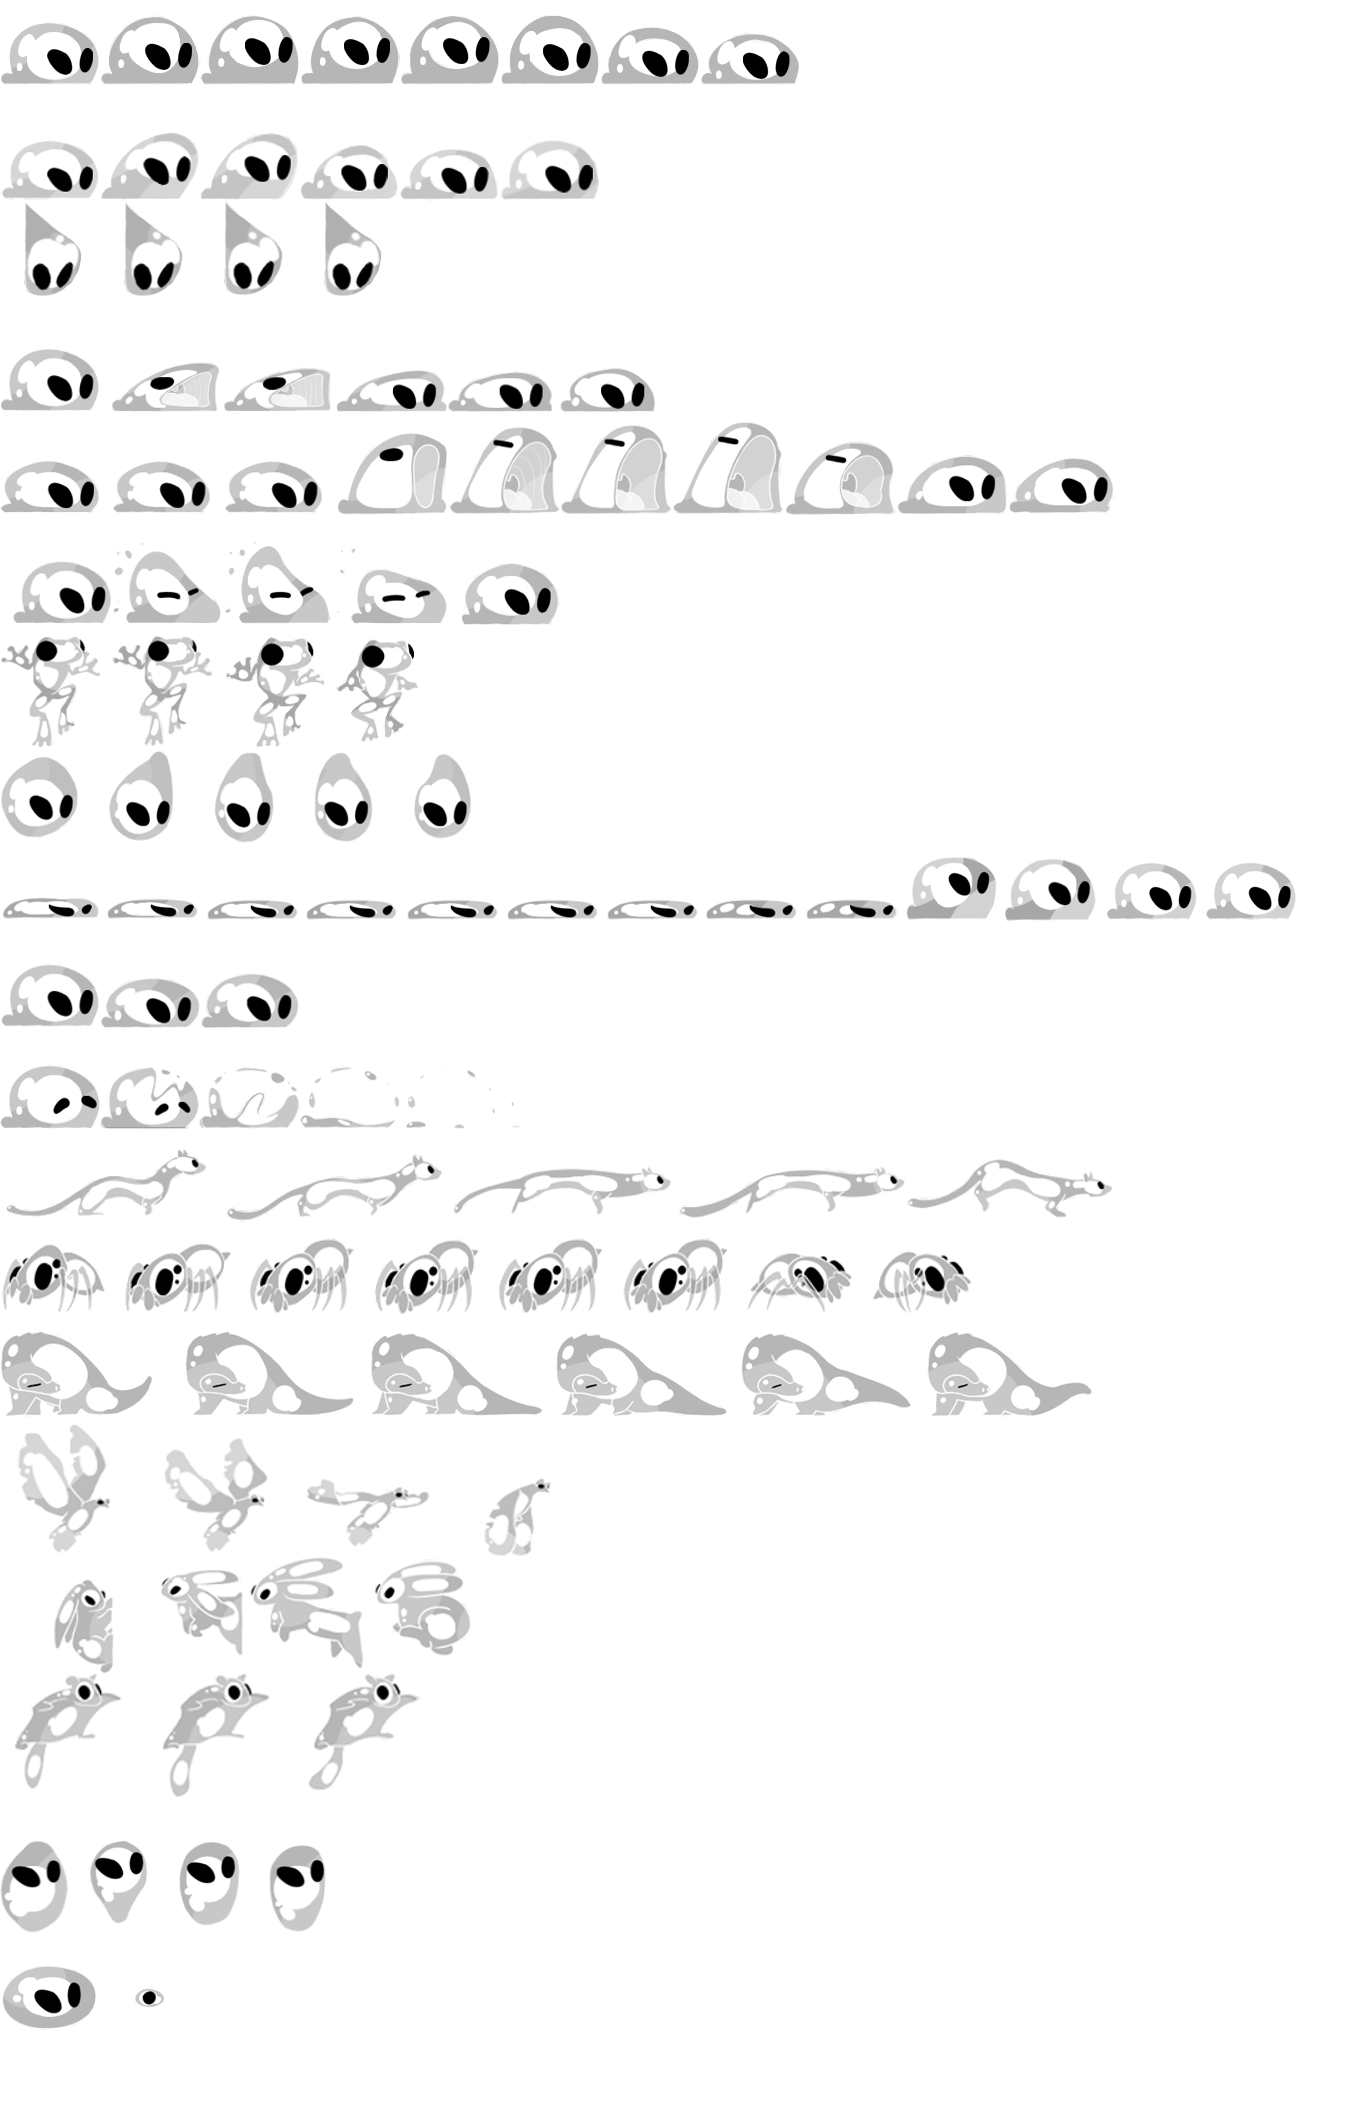
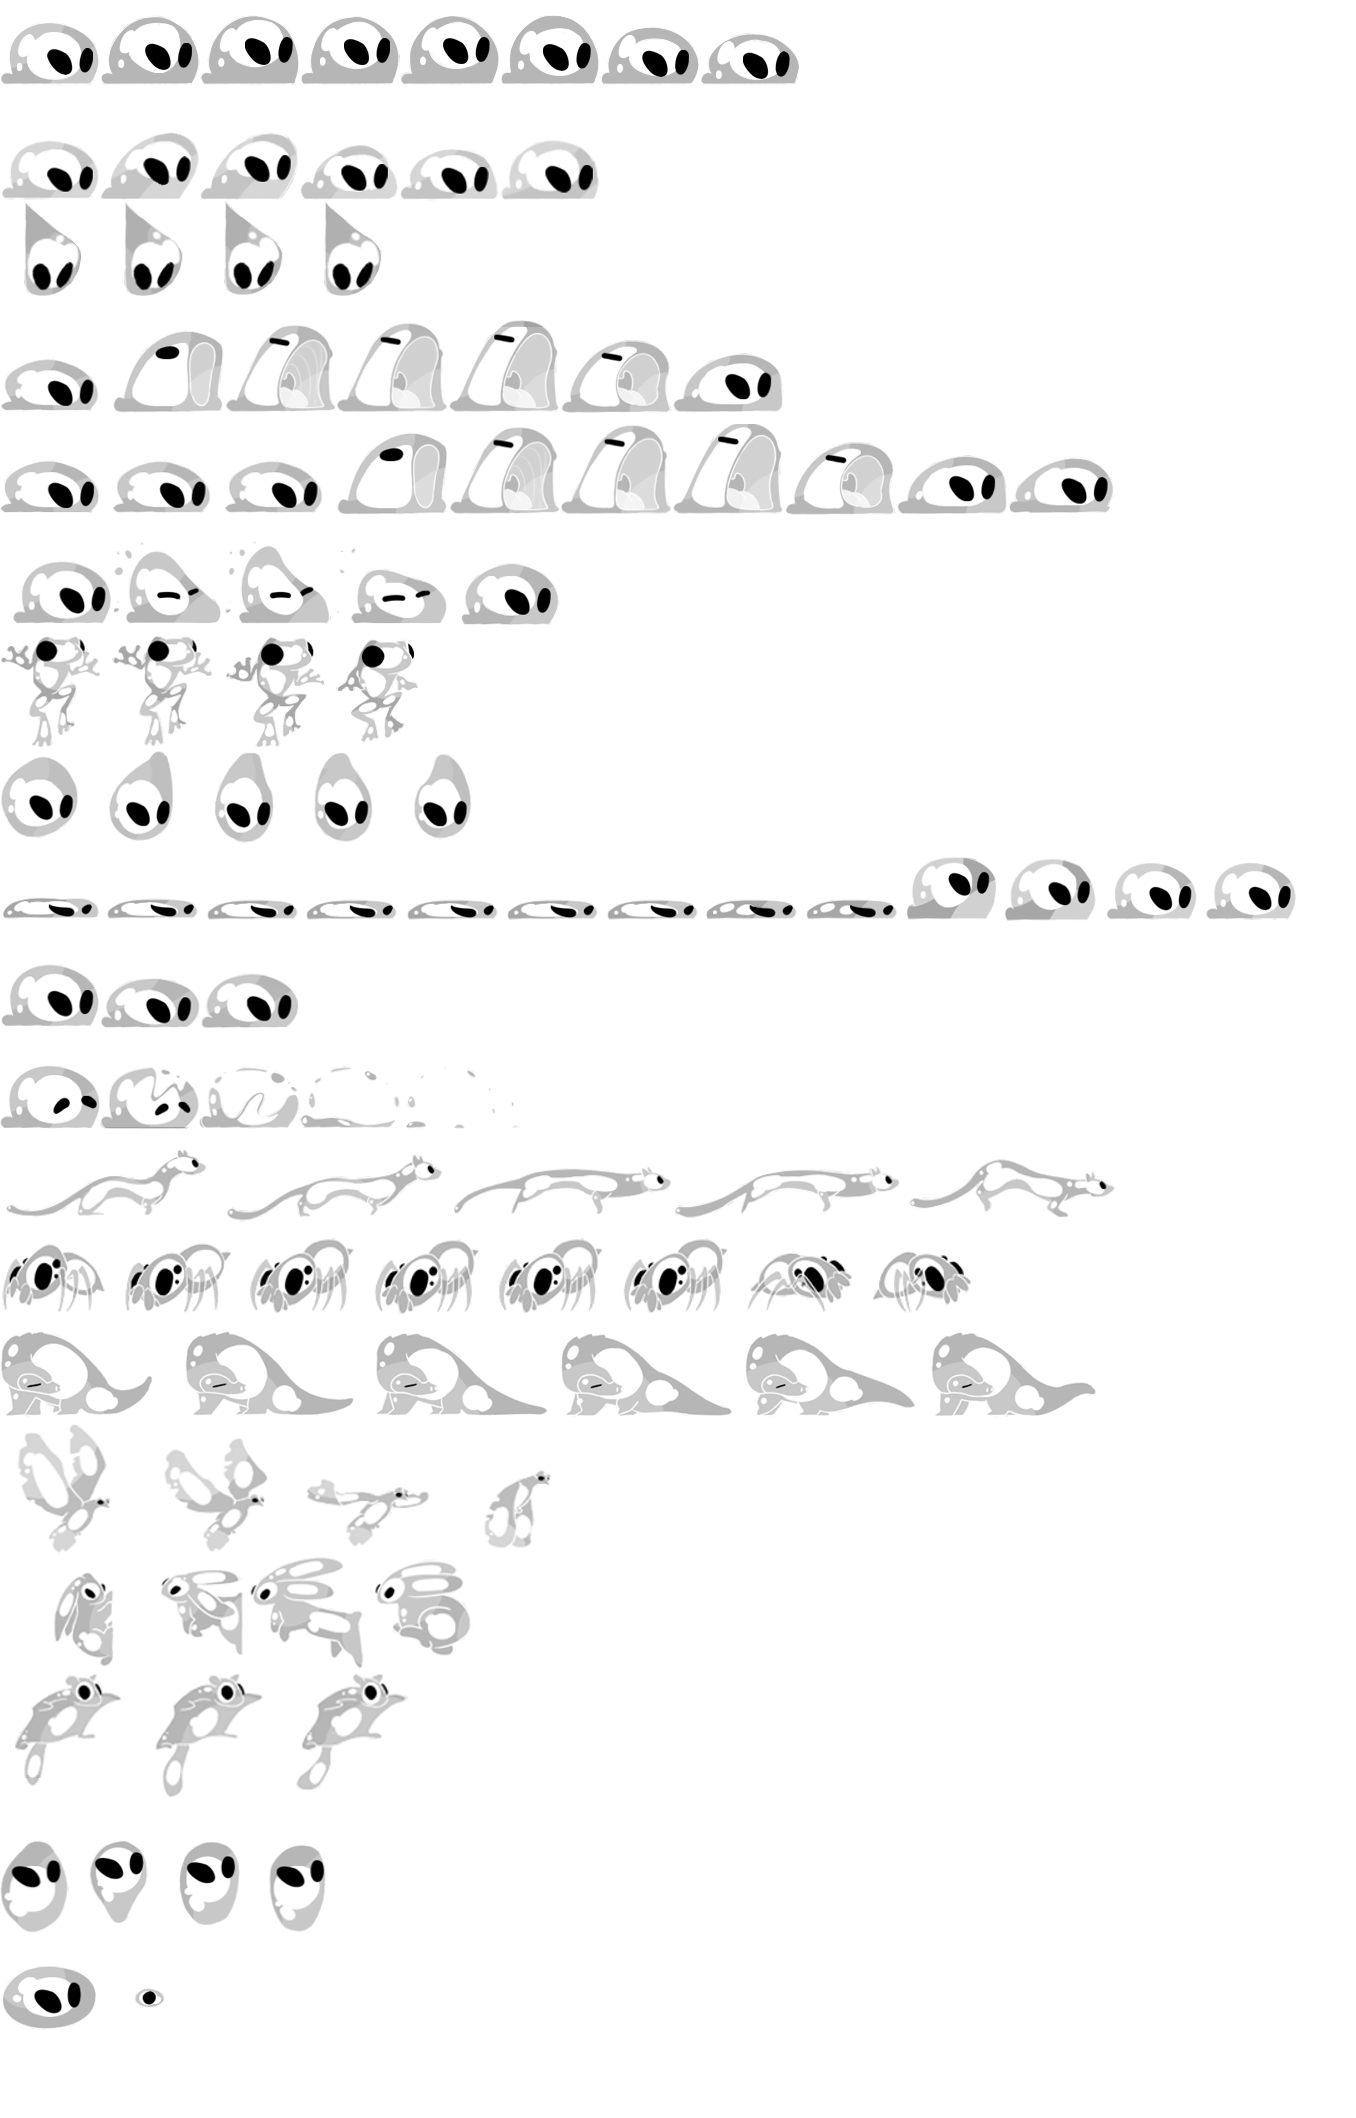
new animations uploaded

diff --git a/Output/src/JumpMechanic.cpp b/Output/src/JumpMechanic.cpp
@@ -21,6 +21,11 @@ void JumpMechanic::Update(float dt) {
 void JumpMechanic::HandleJumpInput(float dt) {
     if (!jumpUnlocked) return;
 
+    if (player->GetMechanics()->GetMovementHandler()->IsDashUnlocked() &&
+        player->GetMechanics()->GetMovementHandler()->GetDashMechanic().IsDashing()) {
+        return;
+    }
+
     // Entrada teclado
     std::shared_ptr<Input> input = Engine::GetInstance().input;
     bool spaceNow = input->GetKey(SDL_SCANCODE_SPACE) == KEY_REPEAT || input->GetKey(SDL_SCANCODE_SPACE) == KEY_DOWN;
@@ -48,22 +53,7 @@ void JumpMechanic::HandleJumpInput(float dt) {
 
     // Iniciar salto
     if (jumpDown) {
-        if (jumpCount == 0 && player->GetMechanics()->IsOnGround()) {
-            jumpHoldTimer.Start();
-            isJumping = true;
-            jumpCount = 1;
-            player->GetMechanics()->SetIsOnGround(false);
-            player->GetAnimation()->SetStateIfHigherPriority("jump");
-            jumpInterrupted = false;
-
-            jumpCooldownTimer.Start();
-            jumpCooldownActive = true;
-
-            // Impulso inicial para garantizar altura m�nima
-            b2Vec2 impulse(0, -minJumpForce);
-            player->pbody->body->ApplyForceToCenter(impulse, true);
-        }
-        else if (wallJumpUnlocked && player->GetMechanics()->IsWallSliding()) {
+        if (wallJumpUnlocked && player->GetMechanics()->IsWallSliding()) {
             isJumping = true;
             wallJumpActive = true;
             jumpCount = 1;
@@ -89,6 +79,21 @@ void JumpMechanic::HandleJumpInput(float dt) {
             wallJumpLockActive = true;
             wallJumpLockTimer.Start();
         }
+        if (jumpCount == 0 && player->GetMechanics()->IsOnGround()) {
+            jumpHoldTimer.Start();
+            isJumping = true;
+            jumpCount = 1;
+            player->GetMechanics()->SetIsOnGround(false);
+            player->GetAnimation()->SetStateIfHigherPriority("jump");
+            jumpInterrupted = false;
+
+            jumpCooldownTimer.Start();
+            jumpCooldownActive = true;
+
+            // Impulso inicial para garantizar altura m�nima
+            b2Vec2 impulse(0, -minJumpForce);
+            player->pbody->body->ApplyForceToCenter(impulse, true);
+        }
         else if (doubleJumpUnlocked && jumpCount < maxJumpCount) {
             jumpHoldTimer.Start();
             isJumping = true;
@@ -107,6 +112,7 @@ void JumpMechanic::HandleJumpInput(float dt) {
             b2Vec2 impulse(0, -minJumpForce);
             player->pbody->body->ApplyForceToCenter(impulse, true);
         }
+
     }
 
     if (isJumping && jumpHoldTimer.ReadMSec() > 0 && jumpRepeat) {

diff --git a/Output/src/HookAnchor.cpp b/Output/src/HookAnchor.cpp
@@ -33,6 +33,7 @@ bool HookAnchor::Start()
     sensor->ctype = ColliderType::HOOK_SENSOR;
     sensor->listener = this;
 
+    highlightTexture = Engine::GetInstance().textures->Load("Assets/Props/gancho_seleccionado.png");
 
     return true;
 }
@@ -99,14 +100,10 @@ bool HookAnchor::Update(float dt)
     {
         int borderX = position.getX();
         int borderY = position.getY();
-        int borderW = width;
-        int borderH = height;
 
-        // Dibuja los 4 lados del recuadro
-        Engine::GetInstance().render->DrawLine(borderX, borderY, borderX + borderW, borderY, 255, 255, 0, 255); // Top
-        Engine::GetInstance().render->DrawLine(borderX, borderY, borderX, borderY + borderH, 255, 255, 0, 255); // Left
-        Engine::GetInstance().render->DrawLine(borderX + borderW, borderY, borderX + borderW, borderY + borderH, 255, 255, 0, 255); // Right
-        Engine::GetInstance().render->DrawLine(borderX, borderY + borderH, borderX + borderW, borderY + borderH, 255, 255, 0, 255); // Bottom
+        if (highlightTexture) {
+            Engine::GetInstance().render->DrawTexture(highlightTexture, borderX, borderY);
+        }
     }
 
     return true;
@@ -124,6 +121,11 @@ bool HookAnchor::CleanUp()
     {
         Engine::GetInstance().physics->DeletePhysBody(sensor);
         sensor = nullptr;
+    }
+
+    if (highlightTexture) {
+        SDL_DestroyTexture(highlightTexture);
+        highlightTexture = nullptr;
     }
 
     return true;

diff --git a/Output/src/PlayerAnimation.cpp b/Output/src/PlayerAnimation.cpp
@@ -71,13 +71,16 @@ void PlayerAnimation::Update(const std::string& state, int x, int y, bool visibl
         drawY = y - 15; // desplaza 10 píxeles a la izquierda para el sprite
     }
     if (state == "attack") {  // no está flippeado -> mirando a la derecha
-        drawY = y - 10; // desplaza 10 píxeles a la izquierda para el sprite
+        drawY = y - 20; // desplaza 10 píxeles a la izquierda para el sprite
     }
     if (state == "eat") {  // no está flippeado -> mirando a la derecha
         drawY = y - 10; // desplaza 10 píxeles a la izquierda para el sprite
     }
     if (state == "hit") {  // no está flippeado -> mirando a la derecha
         drawY = y - 10; // desplaza 10 píxeles a la izquierda para el sprite
+    }
+    if (state == "landing_stun") {  // no está flippeado -> mirando a la derecha
+        drawY = y + 18; // desplaza 10 píxeles a la izquierda para el sprite
     }
 
     Engine::GetInstance().render->DrawTexture(
@@ -148,6 +151,7 @@ AnimationStatePriority PlayerAnimation::GetPriorityForState(const std::string& s
     if (state == "landing_stun") return AnimationStatePriority::LANDING_STUN; // 👈 NUEVO
     if (state == "hit") return AnimationStatePriority::HIT;
     if (state == "die") return AnimationStatePriority::DIE;
+    if (state == "liana") return AnimationStatePriority::LIANA;
 
     return AnimationStatePriority::IDLE;
 }

diff --git a/Output/src/PlayerMechanics.cpp b/Output/src/PlayerMechanics.cpp
@@ -20,6 +20,11 @@ void PlayerMechanics::Update(float dt) {
     invulnerabilitySystem.Update(dt);
     godModeSystem.Update(dt);
     respawnSystem.Update(dt);
+
+    if (!canSpikeDamage && spikeDamageTimer.ReadMSec() == spikeDamageTime)
+    {
+        canSpikeDamage = true;  
+    }
 }
 
 void PlayerMechanics::PostUpdate() {
@@ -45,12 +50,10 @@ void PlayerMechanics::OnCollision(PhysBody* physA, PhysBody* physB) {
         break;
     }
     case ColliderType::SPIKE:
-        if (!godModeSystem.IsEnabled() && !invulnerabilitySystem.IsInvulnerable()) {
+        if (!godModeSystem.IsEnabled() && canSpikeDamage) {
             healthSystem.HandleSpikeDamage();
             respawnSystem.ForceRespawn();
         }
-        break;
-
         break;
     default:
         break;
@@ -59,6 +62,12 @@ void PlayerMechanics::OnCollision(PhysBody* physA, PhysBody* physB) {
 
 void PlayerMechanics::OnCollisionEnd(PhysBody* physA, PhysBody* physB) {
     movementHandler.OnCollisionEnd(physA, physB);
+    switch (physB->ctype) {
+    case ColliderType::SPIKE:
+        canSpikeDamage = false;
+        spikeDamageTimer.Start();
+        break;
+    }
 }
 
 void PlayerMechanics::EnableJump(bool enable) {

diff --git a/Output/src/PlayerAnimation.h b/Output/src/PlayerAnimation.h
@@ -10,18 +10,19 @@
 enum class AnimationStatePriority {
     IDLE = 0,
     RUN_RIGHT = 1,
-    FALL = 2,
-    JUMP = 3,
-    WALL_SLIDE = 4,
-    DOUBLEJUMP = 5,
-    WALLJUMP = 6,
-    DASH = 7,
-    GLIDE = 8,
-    ATTACK = 9,
-    EAT = 10,
-    LANDING_STUN = 11,
-    HIT = 12,
-    DIE = 13
+    LIANA = 2,
+    FALL = 3,
+    JUMP = 4,
+    WALL_SLIDE = 5,
+    DOUBLEJUMP = 6,
+    WALLJUMP = 7,
+    DASH = 8,
+    GLIDE = 9,
+    ATTACK = 10,
+    EAT = 11,
+    LANDING_STUN = 12,
+    HIT = 13,
+    DIE = 14
 };
 
 struct SDL_Texture;

diff --git a/Output/src/FallMechanic.cpp b/Output/src/FallMechanic.cpp
@@ -12,7 +12,7 @@ void FallMechanic::Update(float dt) {
     if (isStunned) {
         if (stunTimer.ReadMSec() >= stunDuration) {
             isStunned = false;
-            player->GetAnimation()->SetStateIfHigherPriority("idle");
+            player->GetAnimation()->ForceSetState("idle");
         }
         else {
             player->pbody->body->SetLinearVelocity(b2Vec2_zero);

diff --git a/Output/src/Scene.cpp b/Output/src/Scene.cpp
@@ -189,7 +189,8 @@ void Scene::ChangeScene(int nextScene)
 	LOG("Cambiando a escena: %d", nextScene);
 	Engine::GetInstance().map->CleanUp(); 	// CleanUp of the previous Map
 	if (hookManager) {
-		hookManager->ClearHooks(); // lo implementamos abajo
+		hookManager->ClearHooks();
+		SetActiveHook(nullptr);
 	}
 
 	Engine::GetInstance().entityManager.get()->DestroyAllEntities();

diff --git a/Output/src/MovementHandler.h b/Output/src/MovementHandler.h
@@ -50,6 +50,7 @@ public:
     void EnableGlide(bool enable);
     bool IsGlideUnlocked() const { return jumpMechanic.IsGlideUnlocked(); }
     WallSlideMechanic* GetWallSlideMechanic() { return &wallSlideMechanic; }
+    DashMechanic& GetDashMechanic() { return dashMechanic; }
     void EnableWallJump(bool enable);
     bool IsWallJumpUnlocked() const;
 

diff --git a/Output/src/HealthSystem.cpp b/Output/src/HealthSystem.cpp
@@ -52,7 +52,6 @@ void HealthSystem::TakeDamage() {
 void HealthSystem::HandleSpikeDamage() {
     if (lives > 0) {
         lives--;
-        player->GetMechanics()->GetInvulnerabilitySystem()->StartInvulnerability();
     }
 
     if (lives <= 0 && !isDying) {

diff --git a/Output/src/MovementHandler.cpp b/Output/src/MovementHandler.cpp
@@ -51,6 +51,8 @@ void MovementHandler::Update(float dt) {
     if (fallMechanic.IsStunned()) return;
 
     if (isOnLiana) {
+        player->GetAnimation()->ForceSetState("liana");
+
         b2Vec2 velocity(0.0f, 0.0f);
 
         // --------- Mando ---------

diff --git a/Output/src/PlayerMechanics.h b/Output/src/PlayerMechanics.h
@@ -61,4 +61,8 @@ private:
     bool isOnGround = false;
     bool isWallSliding = false;
     bool isTouchingWall = false;
+
+    bool canSpikeDamage = true;
+    Timer spikeDamageTimer;
+    float spikeDamageTime = 1.0f;
 };

diff --git a/Output/src/HookAnchor.h b/Output/src/HookAnchor.h
@@ -47,4 +47,5 @@ private:
     float cancelDistanceThreshold = 30.0f;
     bool hookUsed = false;
     bool wasOnGroundAtHookStart = false;
+    SDL_Texture* highlightTexture = nullptr;
 };
